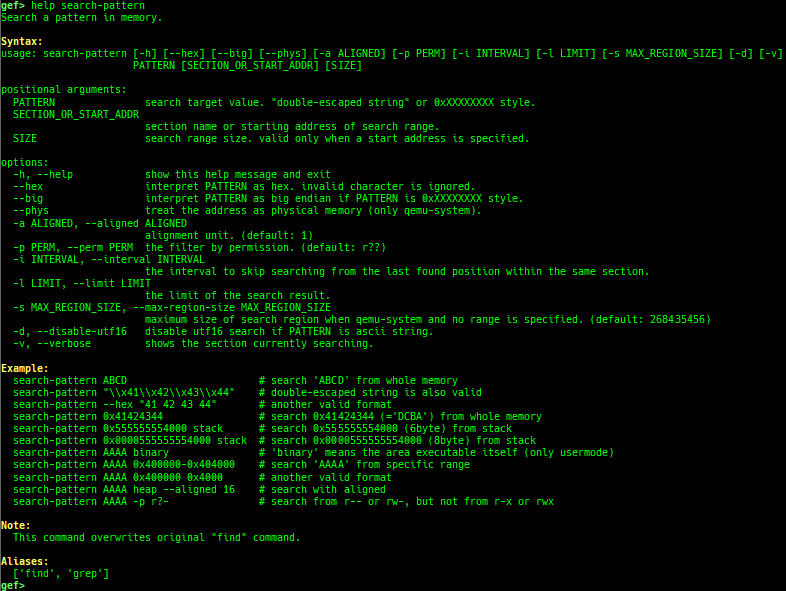
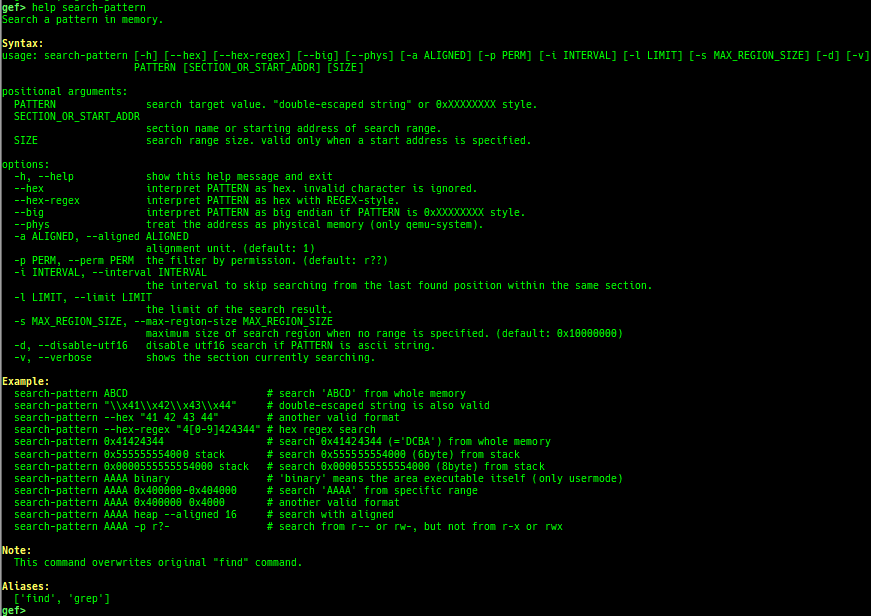
fix docs

Changed region(s): [[0.0, 0.0, 1.0, 1.0]]

diff --git a/README.md b/README.md
@@ -36,20 +36,20 @@ Many other commands have been added and improved. Enjoy!
 - It might work on ubuntu 20.04 - 21.10, but not recommended.
 
 ### Install
-```bash
-# Ubuntu 23.04 or later restrict global installation of python packages with pip3.
-# So you need --break-system-packages option.
-wget -q https://raw.githubusercontent.com/bata24/gef/dev/install.sh -O- | sed -e 's/pip3 install/pip3 install --break-system-packages/g' | sh
+* Run following commands as root user.
+    ```bash
+    # Ubuntu 23.04 or later restrict global installation of python packages with pip3.
+    # So you need --break-system-packages option.
+    wget -q https://raw.githubusercontent.com/bata24/gef/dev/install.sh -O- | sed -e 's/pip3 install/pip3 install --break-system-packages/g' | sh
 
-# Ubuntu 22.10 or before
-wget -q https://raw.githubusercontent.com/bata24/gef/dev/install.sh -O- | sh
-```
-
+    # Ubuntu 22.10 or before
+    wget -q https://raw.githubusercontent.com/bata24/gef/dev/install.sh -O- | sh
+    ```
 * Note
     * To simplify the installation script, GEF (`gef.py`) is installed to a fixed path (`/root/.gdbinit-gef.py`).
     * Also, it registers the GEF path to `/root/.gdbinit`.
     * If you want to change the location or user, please modify both yourself.
-    * See [docs/FAQ.md](https://github.com/bata24/gef/blob/dev/docs/FAQ.md) for more information.
+    * See [docs/FAQ.md](https://github.com/bata24/gef/blob/dev/docs/FAQ.md) for more information and other install options.
 
 ### Upgrade
 ```bash
@@ -154,21 +154,21 @@ See [docs/SUPPORTED-MODE.md](https://github.com/bata24/gef/blob/dev/docs/SUPPORT
         * `vmlinux-to-elf-apply`: Requires installation of external tools. Create `vmlinux` with symbols.
         * `ksymaddr-remote-apply`: Requires no external tools. Create an blank ELF with only embedded symbols.
 * `slub-dump`: dumps slub free-list.
-    * Supported on x64/x86/ARM64/ARM + SLUB + no-symbol + kASLR.
+    * Supported on x64/x86/ARM64/ARM + `SLUB` + no-symbol + kASLR.
     * Supported on both `CONFIG_SLAB_FREELIST_HARDENED` is `y` or `n`.
     * It supports to dump partial pages (`-v`) and NUMA node pages (`-vv`).
     * Since `page_to_virt` is difficult to implement, it will heuristically determine the virtual address from the free-list.
     * ![](https://raw.githubusercontent.com/bata24/gef/dev/images/slub-dump.png)
 * `slab-dump`: dumps slab free-list.
-    * Supported on x64/x86/ARM64/ARM + SLAB + no-symbol + kASLR.
+    * Supported on x64/x86/ARM64/ARM + `SLAB` + no-symbol + kASLR.
     * ![](https://raw.githubusercontent.com/bata24/gef/dev/images/slab-dump.png)
 * `slob-dump`: dumps slob free-list.
-    * Supported on x64/x86/ARM64/ARM + SLOB + no-symbol + kASLR.
+    * Supported on x64/x86/ARM64/ARM + `SLOB` + no-symbol + kASLR.
     * ![](https://raw.githubusercontent.com/bata24/gef/dev/images/slob-dump.png)
 * `slub-tiny-dump`: dumps slub-tiny free-list.
-    * Supported on x64/x86/ARM64/ARM + SLUB-TINY + no-symbol + kASLR.
+    * Supported on x64/x86/ARM64/ARM + `SLUB-TINY` + no-symbol + kASLR.
     * ![](https://raw.githubusercontent.com/bata24/gef/dev/images/slub-tiny-dump.png)
-* `slab-contains`: resolves which `kmem_cache` certain address (object) belongs to (for SLUB/SLUB-TINY/SLAB).
+* `slab-contains`: resolves which `kmem_cache` certain address (object) belongs to (for `SLUB/SLUB-TINY/SLAB`).
     * ![](https://raw.githubusercontent.com/bata24/gef/dev/images/slab-contains.png)
     * For `SLUB/SLUB-TINY`, if all chunks belonging to a certain `page` are in use, they will not be displayed by `slub-dump/slub-tiny-dump` command.
     * Even with such an address (object), this command may be able to resolve `kmem_cache`.
@@ -265,9 +265,9 @@ See [docs/SUPPORTED-MODE.md](https://github.com/bata24/gef/blob/dev/docs/SUPPORT
     * On cris architecture, `stepi`/`nexti` commands don't work well, so use breakpoints to simulate.
     * If you want to use native `si`/`ni`, use the full form `stepi`/`nexti`.
 * `c`: is the wrapper for native `c` if gdb is connected to qemu-user or intel pin.
-    * When connecting to gdb stub of qemu-user or Intel Pin, gdb does not trap SIGINT during `continue`.
-    * If you want to trap, you need to issue SIGTRAP on the qemu-user or pin side, but switching screens is troublesome.
-    * This command realizes a pseudo SIGTRAP trap by trapping SIGINT on the python side and throwing SIGTRAP back to qemu-user or Intel Pin.
+    * When connecting to gdb stub of qemu-user or Intel Pin, gdb does not trap `SIGINT` during `continue`.
+    * If you want to trap, you need to issue `SIGTRAP` on the qemu-user or pin side, but switching screens is troublesome.
+    * This command realizes a pseudo `SIGTRAP` trap by trapping `SIGINT` on the python side and throwing `SIGTRAP` back to qemu-user or Intel Pin.
     * It works only local qemu-user or Intel Pin.
     * If you want to use native `c`, use the full form `continue`.
 
@@ -363,19 +363,31 @@ See [docs/SUPPORTED-MODE.md](https://github.com/bata24/gef/blob/dev/docs/SUPPORT
 * `context`: is improved.
     * It supports automatic display of system call arguments when calling a system call.
         * ![](https://raw.githubusercontent.com/bata24/gef/dev/images/context-syscall-args.png)
+    * It supports new modes:
+        * `context on`
+        * `context off`
     * It supports automatic display of address and value when accessing memory.
         * ![](https://raw.githubusercontent.com/bata24/gef/dev/images/context-memory-access.png)
-    * It supports smart symbol printing for cpp function.
+    * It supports smart symbol printing for C++ function.
         * ex: `std::map<int, std::map<int, int>>` will be replaced by `std::map<...>`.
         * ![](https://raw.githubusercontent.com/bata24/gef/dev/images/smart-cpp-function-name.png)
         * command: `gef config context.smart_cpp_function_name true` or `smart-cpp-function-name` (later is used to toggle).
 * `telescope`: is improved.
     * It displays ordinal numbers as well as offsets.
-    * It displays if there are canary and ret-addr on the target area.
+    * It displays if there are canary and return address on the target area.
         * ![](https://raw.githubusercontent.com/bata24/gef/dev/images/telescope.png)
     * It supports blacklist address features (to avoid dying when touching the address mapped to the serial device).
     * It also shows the symbol if available.
-    * It supports some new options: `--is-addr`, `--is-not-addr`, `--uniq`, `--depth`, `--slab-contains`, `--slab-contains-unaligned`, `--phys` and `--tag`.
+    * It supports some new options:
+        * `--is-addr`
+        * `--is-not-addr`
+        * `--depth`
+        * `--tag`
+        * `--uniq`
+        * `--list-head`
+        * `--phys`
+        * `--slab-contains`
+        * `--slab-contains-unaligned`
 * `proc-info`: is improved.
     * It displays some additional information.
         * ![](https://raw.githubusercontent.com/bata24/gef/dev/images/proc-info.png)
@@ -422,7 +434,7 @@ See [docs/SUPPORTED-MODE.md](https://github.com/bata24/gef/blob/dev/docs/SUPPORT
     * It shows changed memories.
         * ![](https://raw.githubusercontent.com/bata24/gef/dev/images/unicorn-emulate.png)
 * `ropper`: is improved.
-    * It does not reset autocomplete settings after calling imported ropper.
+    * It does not reset autocomplete settings after calling imported `ropper`.
 * `hexdump`: is improved.
     * It supports physical memory if under qemu-system.
     * It will retry with adjusting read size when failed reading memory.
@@ -430,12 +442,28 @@ See [docs/SUPPORTED-MODE.md](https://github.com/bata24/gef/blob/dev/docs/SUPPORT
     * ![](https://raw.githubusercontent.com/bata24/gef/dev/images/hexdump.png)
 * `patch`: is improved.
     * It supports physical memory if under qemu-system.
-    * Added some new modes: `pattern`, `hex`, `history`, `revert`, `nop`, `inf`, `trap`, `ret`, and `syscall`.
+    * Added some new modes:
+        * `patch hex`
+        * `patch pattern`
+        * `patch nop`
+        * `patch inf`
+        * `patch trap`
+        * `patch ret`
+        * `patch syscall`
+        * `patch history`
+        * `patch revert`
     * `nop` command has been integrated into `patch` command.
     * ![](https://raw.githubusercontent.com/bata24/gef/dev/images/patch.png)
 * `search-pattern`: is improved.
     * It supports when under qemu-system (in short, it works without `/proc/self/maps`)
-    * It supports hex string specification, aligned search, search interval and search limit.
+    * It supports some new options:
+        * `--hex`
+        * `--hex-regex`
+        * `--aligned`
+        * `--perm`
+        * `--interval`
+        * `--limit`
+        * `--max-region-size`
     * It also searches UTF-16 string if target string is ASCII.
     * ![](https://raw.githubusercontent.com/bata24/gef/dev/images/search-pattern.png)
 * `mprotect`: is improved.

diff --git a/docs/FAQ.md b/docs/FAQ.md
@@ -130,22 +130,34 @@ Consider building gdb from latest tarball or git.
 Although it is limited to Ubuntu 22.10 or later, it is recommended to use `debuginfod`.
 
 * Enable `debuginfod` (ubuntu 22.10~)
-    * `export DEBUGINFOD_URLS="https://debuginfod.ubuntu.com"`
-    * `echo "set debuginfod enabled on" >> ~/.gdbinit`
+    ```
+    export DEBUGINFOD_URLS="https://debuginfod.ubuntu.com"
+    echo "set debuginfod enabled on" >> ~/.gdbinit
+    ```
 
-However, for some reason `debuginfod` does not display the `glibc` source code, so you need to obtain and place the source code separately.
+However, for some reason `debuginfod` does not display the `glibc` source code.
+So you need to obtain and place the source code separately.
 I don't really understand the reason for this.
 
 * Get `glibc` source
-    * Ubuntu 24.04 or later: `sed -i -e 's/^Types: deb$/Types: deb deb-src/g' /etc/apt/sources.list.d/ubuntu.sources`
-    * Ubuntu 23.10 or before: `sed -i -e 's/^# deb-src/deb-src/g' /etc/apt/sources.list`
-    * `cd /usr/lib/debug && apt update && apt source libc6`
-    * `echo "directory /usr/lib/debug/glibc-2.39" >> ~/.gdbinit`
-        * Need to fix version for your environment.
+    ```
+    #Ubuntu 24.04 or later
+    sed -i -e 's/^Types: deb$/Types: deb deb-src/g' /etc/apt/sources.list.d/ubuntu.sources
+
+    # Ubuntu 23.10 or before
+    sed -i -e 's/^# deb-src/deb-src/g' /etc/apt/sources.list
+
+    # common
+    cd /usr/lib/debug && apt update && apt source libc6
+    echo "directory /usr/lib/debug/glibc-2.39" >> ~/.gdbinit
+    # Need to fix version for your environment.
+    ```
 
 * Also add `glibc` symbols
-    * `apt install libc6-dbg`
-    * `echo "set debug-file-directory /usr/lib/debug" >> ~/.gdbinit`.
+    ```
+    apt install libc6-dbg
+    echo "set debug-file-directory /usr/lib/debug" >> ~/.gdbinit
+    ```
 
 
 # About the guest (debugged) environment
